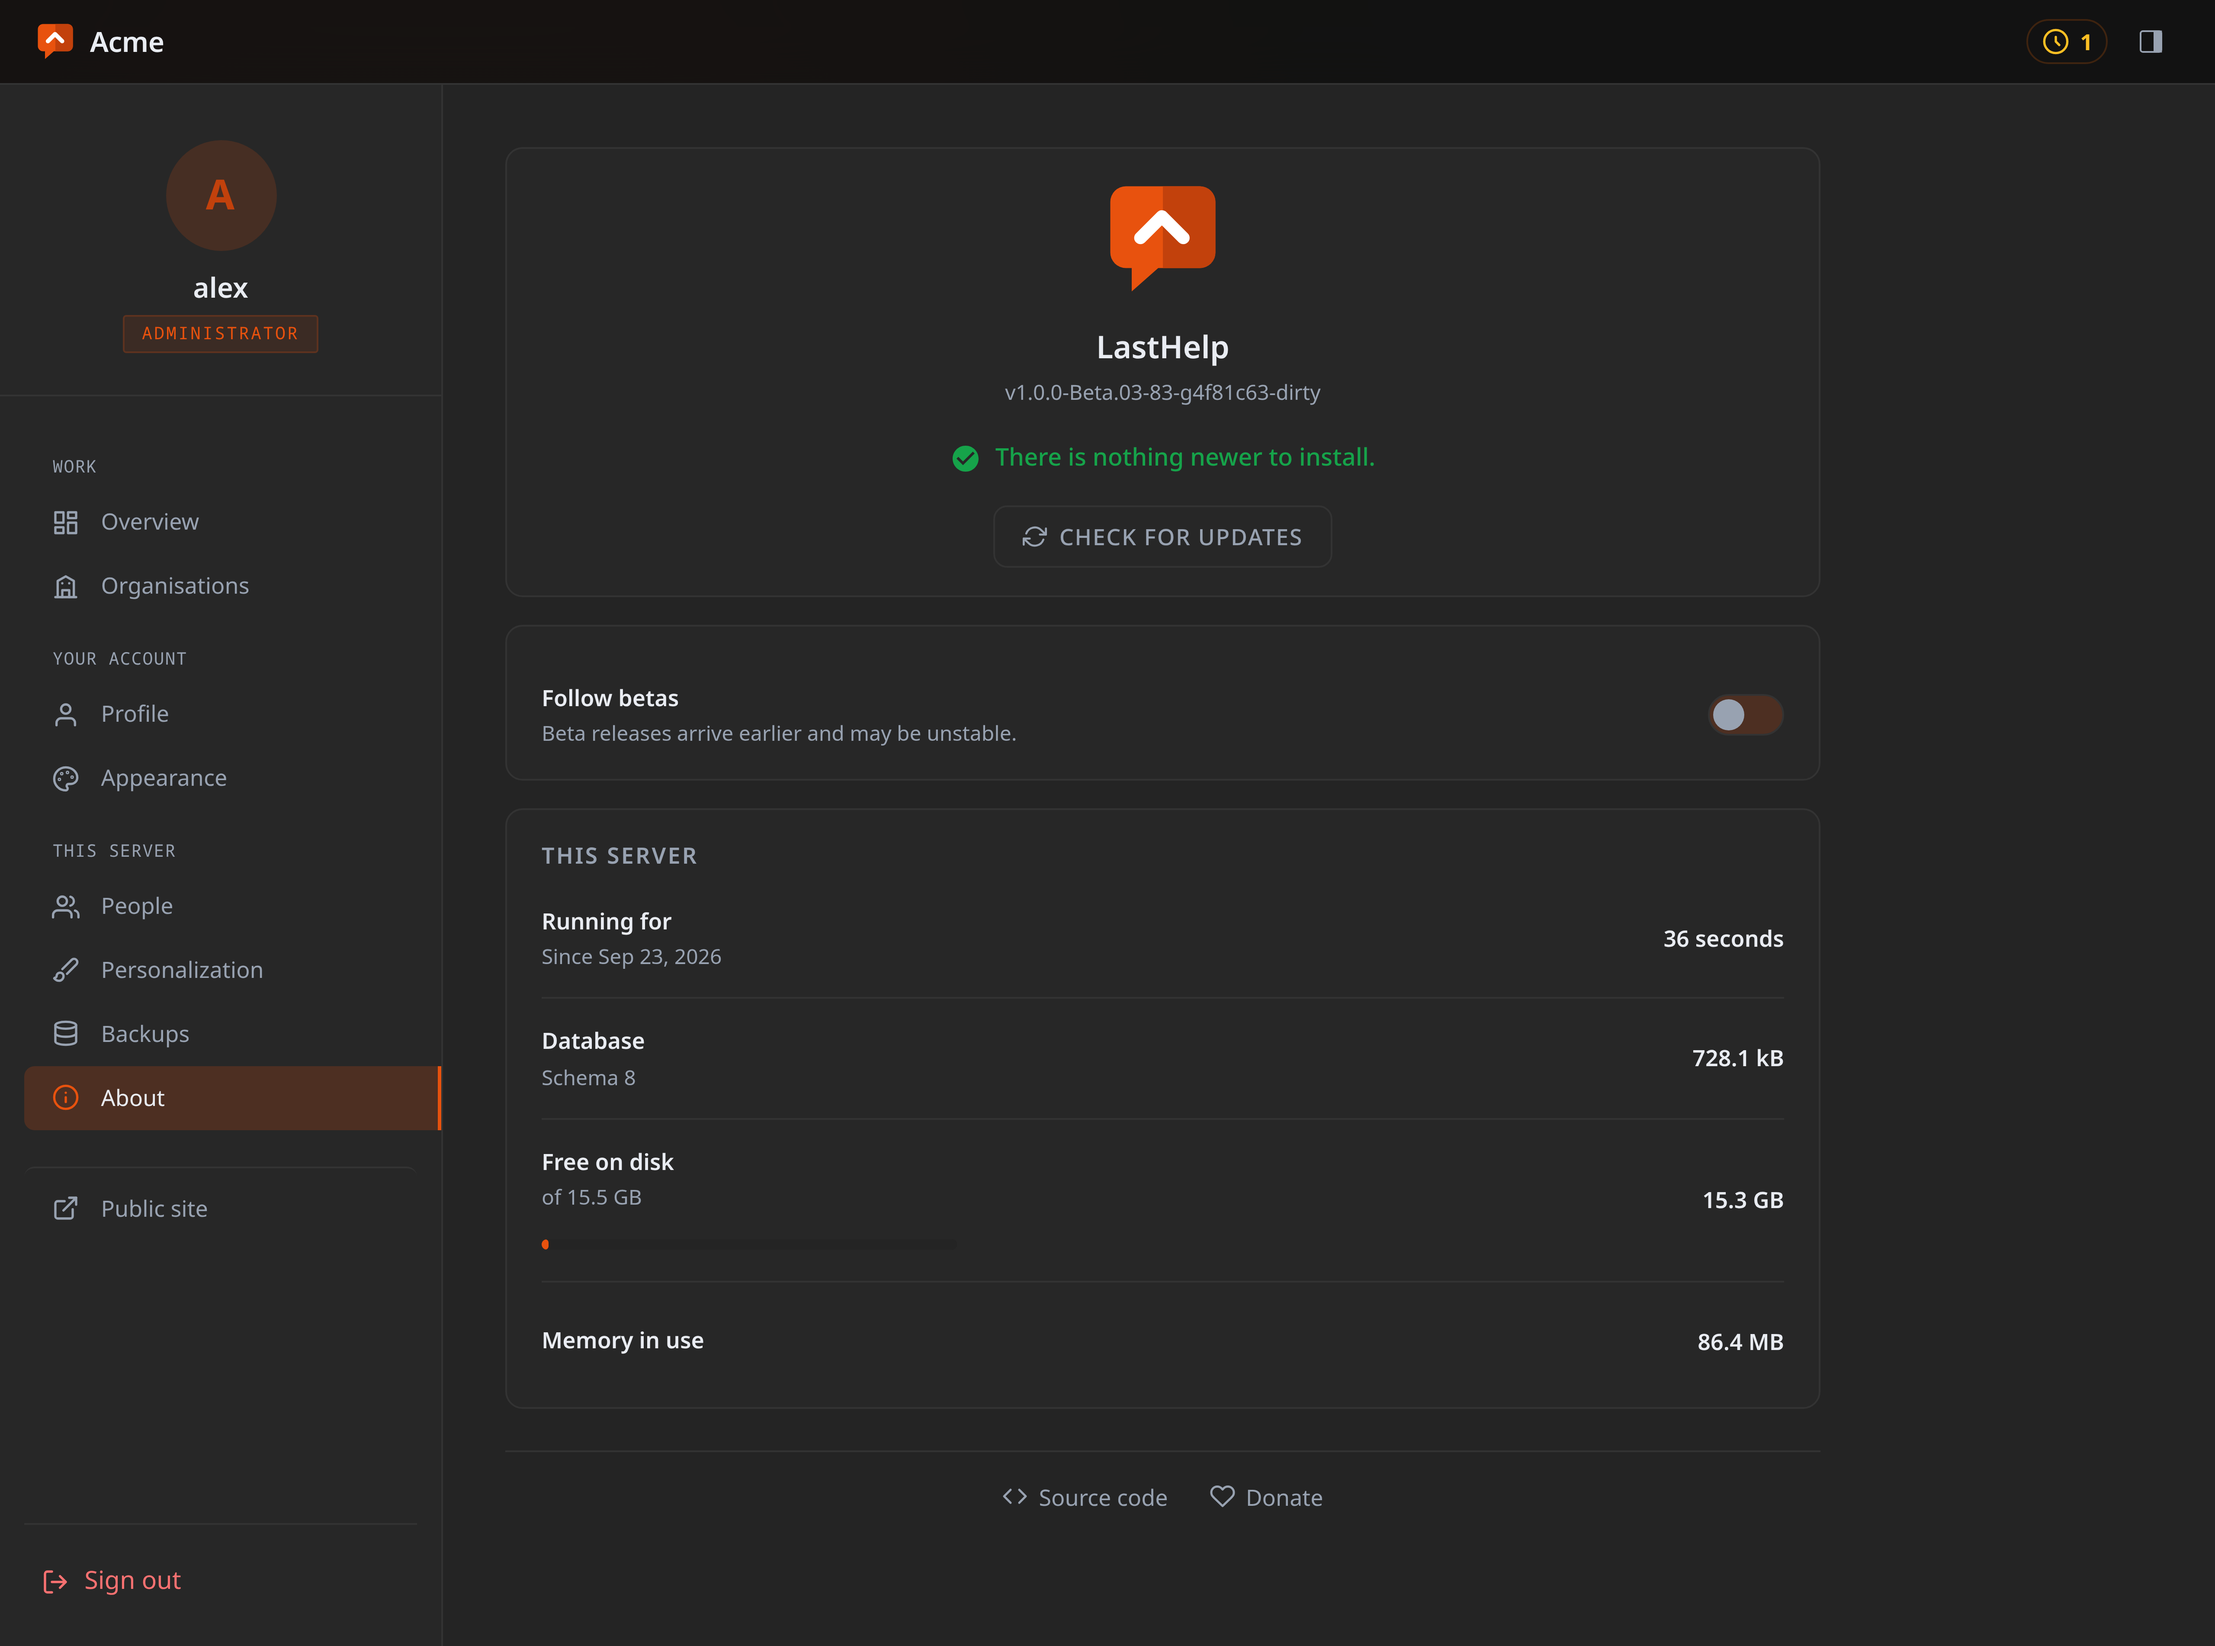
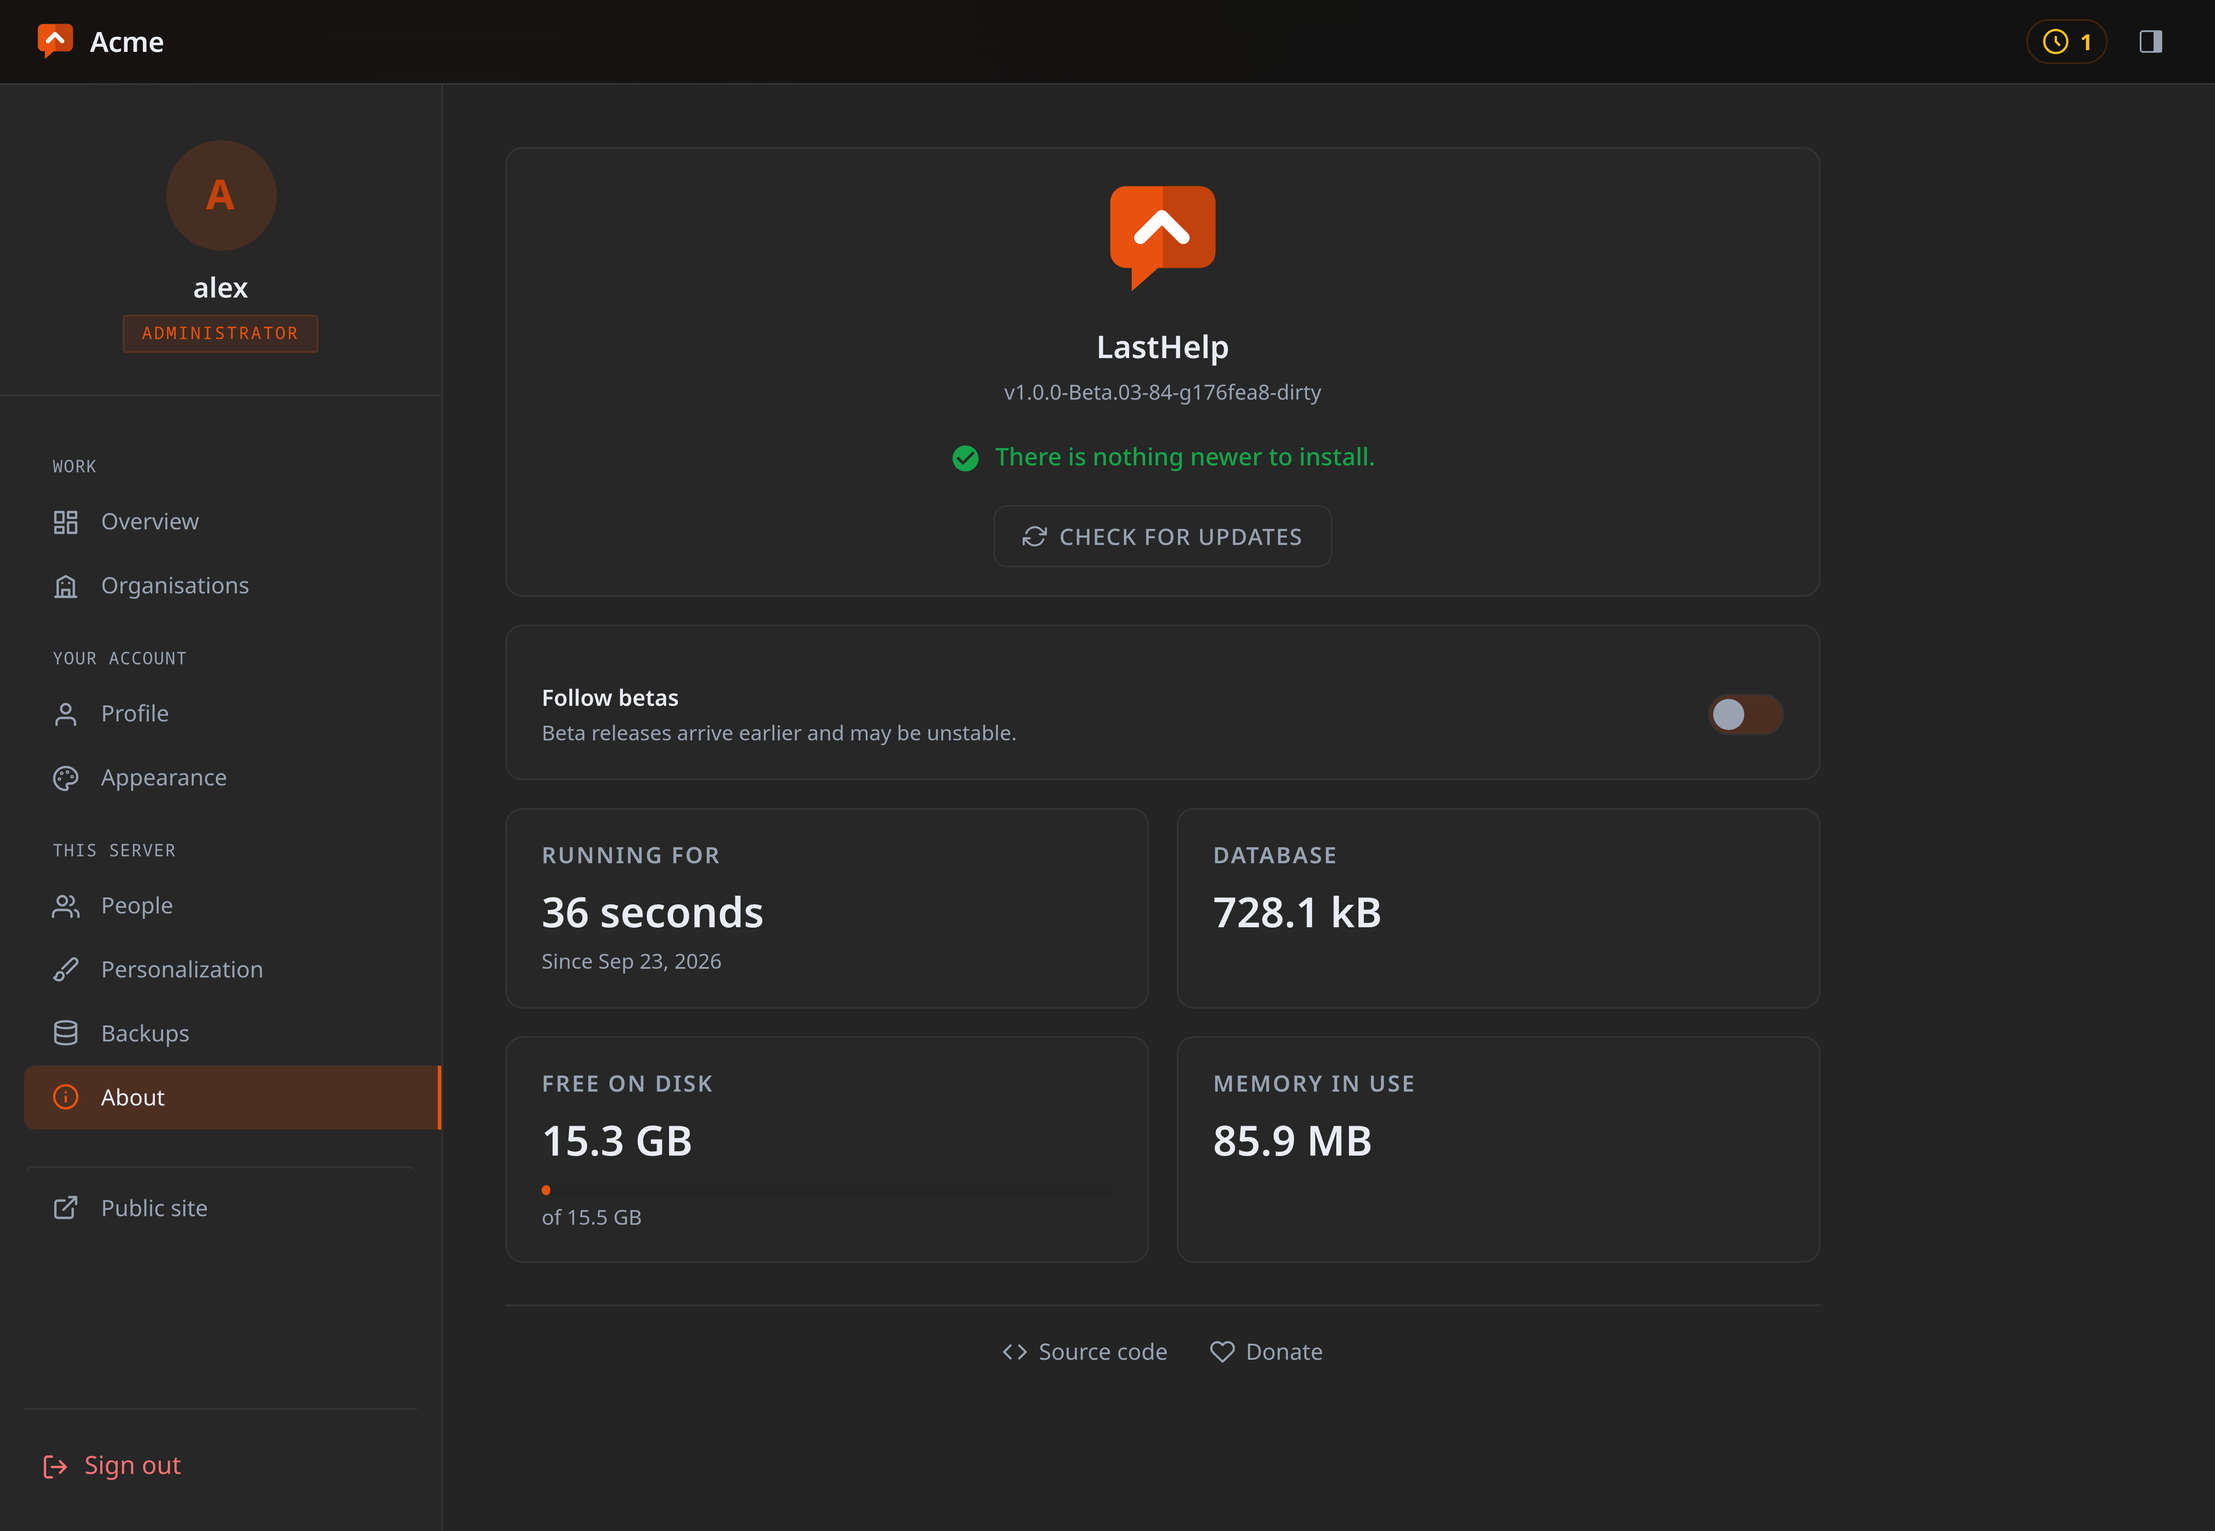
feat(panel): About's server facts as a grid of cards, without the schema
The server's facts were rows in one card. They are a card each now, two to
a row and one on a phone, in the panel's recipe: the name as the card's
quiet title and the number under it at the size of a number, the disk's bar
beneath its figure.

The database schema number is gone from the screen: it answered a question
for whoever develops this, not for whoever runs it. Its key and the "This
server" heading, which the cards no longer need, leave the catalogues.

On a phone a row with a switch keeps the switch at the end of its line, as
Lastboard's does, instead of stacking it under the words.

diff --git a/web/src/views/templates.ts b/web/src/views/templates.ts
@@ -3853,17 +3853,15 @@ export interface ServerFacts {
  * once.
  */
 export function aboutScreen(facts: ServerFacts, text: Text): string {
-  // A fact about the machine, as one of Lastboard's rows: what it is on one
-  // side, the number at the end of the line.
+  // A fact about the machine, as a card of the panel's recipe: its name as the
+  // card's quiet title, the number under it at the size of a number.
   const row = (label: string, value: string, sub = "", extra = "") =>
-    `<div class="settings-row about-stat">
-      <div class="settings-info">
-        <h4>${escapeHTML(label)}</h4>
-        ${sub ? `<p>${escapeHTML(sub)}</p>` : ""}
-        ${extra}
-      </div>
+    `<section class="bento-card about-stat">
+      <div class="card-top"><h3>${escapeHTML(label)}</h3></div>
       <strong class="about-stat-value">${escapeHTML(value)}</strong>
-    </div>`;
+      ${extra}
+      ${sub ? `<p class="about-stat-sub">${escapeHTML(sub)}</p>` : ""}
+    </section>`;
 
   const stats: string[] = [];
   if (facts.uptime_seconds !== undefined) {
@@ -3877,13 +3875,9 @@ export function aboutScreen(facts: ServerFacts, text: Text): string {
   }
   if (facts.database_bytes !== undefined) {
     stats.push(
-      row(
-        text.t("about.database"),
-        text.bytes(facts.database_bytes),
-        // The one number that matters when a backup will not restore, beside
-        // the database it describes rather than in a line of small print.
-        facts.schema !== undefined ? text.t("about.schema", { version: text.number(facts.schema) }) : "",
-      ),
+      // The size and nothing else: the schema number beside it answered a
+      // question for whoever develops this, not for whoever runs it.
+      row(text.t("about.database"), text.bytes(facts.database_bytes)),
     );
   }
   if (facts.disk_free_bytes !== undefined) {
@@ -3945,7 +3939,7 @@ export function aboutScreen(facts: ServerFacts, text: Text): string {
         </div>
       </section>
 
-      ${stats.length === 0 ? "" : settingsCard(text.t("about.server"), stats.join(""))}
+      ${stats.length === 0 ? "" : `<div class="about-stats">${stats.join("")}</div>`}
 
       <nav class="about-links" aria-label="${escapeAttr(text.t("shell.about"))}">
         ${link("https://git.codigosh.com/CodigoSH/LastHelp", icons.code(15), text.t("about.sourceCode"))}

diff --git a/web/styles/theme.css b/web/styles/theme.css
@@ -3458,9 +3458,28 @@ body > nav .brand {
   border-block-start: 1px solid var(--border);
 }
 
-/* A fact's number at the end of its row. */
-.about-stat-value { font-size: 13px; font-weight: 600; font-variant-numeric: tabular-nums; white-space: nowrap; }
-.about-stat .about-meter { max-inline-size: 240px; margin-block-start: 6px; }
+/* The server's facts: a card each, two to a row, one on a phone. */
+.about-stats {
+  display: grid;
+  grid-template-columns: repeat(2, minmax(0, 1fr));
+  gap: 16px;
+}
+
+.about-stat-value {
+  display: block;
+  margin-block-start: 6px;
+  font-size: 24px;
+  font-weight: 600;
+  line-height: 1.2;
+  font-variant-numeric: tabular-nums;
+}
+
+.about-stat-sub { margin: 4px 0 0; font-size: 12px; color: var(--text-dim); }
+.about-stat .about-meter { margin-block-start: 10px; }
+
+@media (max-width: 40rem) {
+  .about-stats { grid-template-columns: minmax(0, 1fr); }
+}
 
 .about-links a {
   display: inline-flex;
@@ -6863,6 +6882,8 @@ a.stat:hover .stat-go {
 
 @media (max-width: 40rem) {
   .settings-row { grid-template-columns: minmax(0, 1fr); row-gap: 10px; }
+  /* A switch is small enough to stay at the end of its line, as theirs does. */
+  .settings-row:has(> .toggle) { grid-template-columns: minmax(0, 1fr) auto; }
   .profile-head { flex-direction: column; align-items: flex-start; }
   .si-tags { display: none; }
 }
